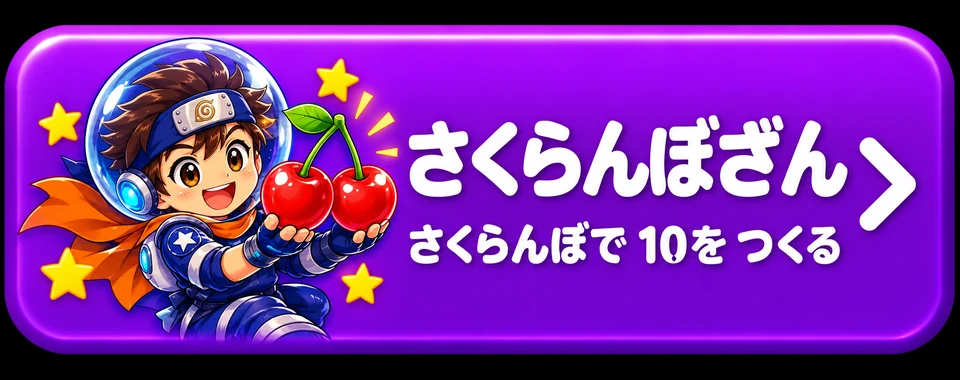
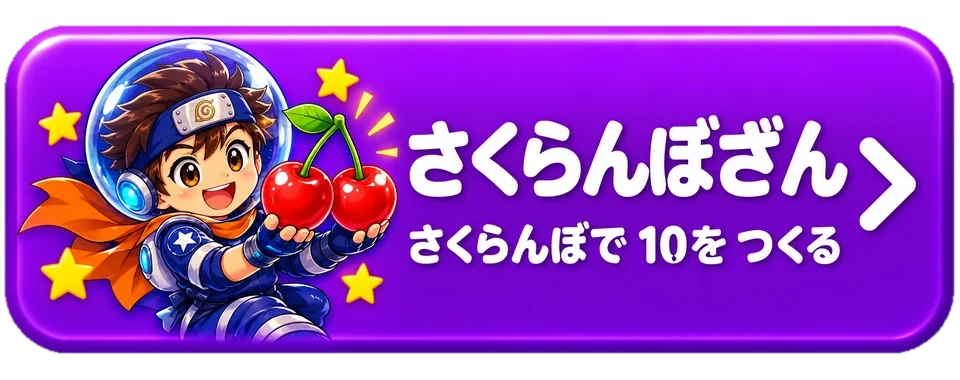
feat(さくらんぼざん): 専用の絵に差し替え、修行いちらんに加える（#63）
- 紹介ページのヒーロー・コラムのクリックバナー：タブレットの画面にプレイ画面（1024x768）を合成。
  バナーには「さくらんぼざん」「▶ ここをクリックしてためす」を合成（M PLUS Rounded 1c）
- OGP：左上にタイトルを合成。アプリ・紹介ページの og:image と仕様書を差し替え
- 教育支援・アプリ一覧のカードを さくらんぼざん の絵に（これまで さんすう と同じ絵）
- コラム「さくらんぼ算」の本文バナーを さくらんぼざん の紹介ページへ
- 修行いちらんに さくらんぼざん を追加（8本）。3段目の2本を中央に寄せるため6本線のグリッドに。
  1枚絵の地が黒の不透明だった nk-link-sakuranbo / nk-link-kuku は外側を透過に
- 8アプリの ninja-kids.css・ninja-links.js の ?v= を上げる／sitemap の lastmod を更新

Changed region(s): [[0.0, 0.0, 1.0, 1.0]]

diff --git a/tools/sakuranbo/landing.html b/tools/sakuranbo/landing.html
@@ -26,14 +26,14 @@
 <meta property="og:title" content="さくらんぼ算 練習｜さんすう うちゅうたんけん さくらんぼざん">
 <meta property="og:description" content="うしろを分ける・まえを分ける、1けた・2けたの4パターンで、くり上がりのたし算を練習できる無料アプリ。">
 <meta property="og:url" content="https://www.beetle-web.jp/tools/sakuranbo/landing.html">
-<meta property="og:image" content="https://www.beetle-web.jp/assets/images/sansu/lp/og-sansu.jpg">
+<meta property="og:image" content="https://www.beetle-web.jp/assets/images/sakuranbo/lp/og-sakuranbo.jpg">
 <meta property="og:image:width" content="1200">
 <meta property="og:image:height" content="630">
 <meta property="og:locale" content="ja_JP">
 <meta name="twitter:card" content="summary_large_image">
 <meta name="twitter:title" content="さくらんぼ算 練習｜さんすう うちゅうたんけん さくらんぼざん">
 <meta name="twitter:description" content="うしろを分ける・まえを分ける、1けた・2けたの4パターンで、くり上がりのたし算を練習。">
-<meta name="twitter:image" content="https://www.beetle-web.jp/assets/images/sansu/lp/og-sansu.jpg">
+<meta name="twitter:image" content="https://www.beetle-web.jp/assets/images/sakuranbo/lp/og-sakuranbo.jpg">
 <script type="application/ld+json">
 {
   "@context": "https://schema.org",
@@ -100,7 +100,7 @@
         </div>
         <div class="slp-hero-visual">
           <a class="slp-screen" href="/tools/sakuranbo/" aria-label="さんすう うちゅうたんけん さくらんぼざんを始める">
-            <img class="slp-hero-img" src="/assets/images/sansu/lp/app-play.jpg" alt="宇宙を進みながら4択の計算問題に答える、さんすう うちゅうたんけんのプレイ画面" width="1080" height="796">
+            <img class="slp-hero-img" src="/assets/images/sakuranbo/lp/app-play.jpg" alt="さくらんぼざんのプレイ画面。6＋6 のうしろの 6 を2つに分ける問題に、4つの答えから選ぶ" width="1080" height="796">
           </a>
           <div class="slp-float-card slp-float-one"><strong>5つの形</strong><span>まえ・うしろ × 1けた・2けた ＋ ちょうなんもん</span></div>
           <div class="slp-float-card slp-float-two"><strong>10問</strong><span>5分から あそべる</span></div>

diff --git a/tools/sakuranbo/index.html b/tools/sakuranbo/index.html
@@ -28,11 +28,11 @@
 <meta property="og:title" content="さくらんぼ算 練習｜さんすう うちゅうたんけん さくらんぼざん｜BEETLE">
 <meta property="og:description" content="さくらんぼ算を うしろを分ける・まえを分ける・2けたの4パターンで練習できる無料アプリ。">
 <meta property="og:url" content="https://www.beetle-web.jp/tools/sakuranbo/landing.html">
-<meta property="og:image" content="https://www.beetle-web.jp/assets/images/sansu/lp/og-sansu.jpg">
+<meta property="og:image" content="https://www.beetle-web.jp/assets/images/sakuranbo/lp/og-sakuranbo.jpg">
 <meta property="og:image:width" content="1200">
 <meta property="og:image:height" content="630">
 <meta name="twitter:card" content="summary_large_image">
-<meta name="twitter:image" content="https://www.beetle-web.jp/assets/images/sansu/lp/og-sansu.jpg">
+<meta name="twitter:image" content="https://www.beetle-web.jp/assets/images/sakuranbo/lp/og-sakuranbo.jpg">
 <!-- 評価はランディング(landing.html)へ集約する。canonical / og:url はランディングを指す（ツール共通化規約） -->
 <link rel="canonical" href="https://www.beetle-web.jp/tools/sakuranbo/landing.html">
 <link rel="preconnect" href="https://fonts.googleapis.com">
@@ -40,7 +40,7 @@
 <link href="https://fonts.googleapis.com/css2?family=M+PLUS+Rounded+1c:wght@400;700;800&display=swap" rel="stylesheet">
 <link rel="stylesheet" href="/css/common.css">
 <link rel="stylesheet" href="/css/sansu-app.css?v=20260927e">
-<link rel="stylesheet" href="/css/ninja-kids.css?v=20260928i">
+<link rel="stylesheet" href="/css/ninja-kids.css?v=20260929a">
 </head>
 <body class="ninja-kids ninja-space" data-sansu-mode="sakuranbo">
 <div id="site-header"></div>
@@ -61,7 +61,7 @@
   <p class="paper-about"><a href="/tools/sakuranbo/landing.html">🍒 このアプリについて・つかいかた を見る</a></p>
   <p class="paper-release">更新日：2026-09-28</p>
 </div>
-<script src="/js/ninja-links.js?v=20260924c"></script>
+<script src="/js/ninja-links.js?v=20260929a"></script>
 <script src="/js/nk-modal.js?v=20260927b"></script>
 <script src="/js/sansu-app.js?v=20260928h"></script>
 

diff --git a/js/ninja-links.js b/js/ninja-links.js
@@ -15,7 +15,8 @@
     phonics:  { name: 'フォニックス修行', note: 'えいごの おと',       img: 'nk-link-phonics.webp',  href: '/tools/phonics/' },
     tokei:    { name: 'とけい修行',       note: 'とけいを よむ',       img: 'nk-link-tokei.webp',    href: '/tools/tokei/' },
     sansu:    { name: 'さんすう',         note: 'けいさんを する',     img: 'nk-link-sansu.webp',    href: '/tools/sansu-app/' },
-    kuku:     { name: 'かけざん修行',     note: 'くくを となえる',     img: 'nk-link-kuku.webp',     href: '/tools/kuku/' }
+    kuku:     { name: 'かけざん修行',     note: 'くくを となえる',     img: 'nk-link-kuku.webp',     href: '/tools/kuku/' },
+    sakuranbo:{ name: 'さくらんぼざん',   note: 'さくらんぼで 10を つくる', img: 'nk-link-sakuranbo.webp', href: '/tools/sakuranbo/' }
   };
 
   /* 全部を、いつも同じ順で出す（2026-09-03改定）。
@@ -34,8 +35,12 @@
 
      7本目の かけざん(青210°) は3段目の中央に置く（2026-09-16）。真上が フォニックス(緑)で差96°、
      ななめ上が とけい・ローマ字。同じ青系の カタカナ(185°) とは離れる。
-     既存6本の並びは変えない（3段目の中央寄せは ninja-kids.css の .nk-link:last-child 側）。 */
-  var ORDER = ['sansu', 'katakana', 'kanji', 'tokei', 'phonics', 'romaji', 'kuku'];
+     既存6本の並びは変えない（3段目の中央寄せは ninja-kids.css の .nk-link:last-child 側）。
+
+     8本目の さくらんぼざん(紫) を足して3段目は2本に（2026-09-29）。2本は段の中央に寄せ、
+     さくらんぼざん を左・かけざん を右に置く。逆にすると さくらんぼざん が ローマ字(紫) の
+     ななめ下に来て紫が並ぶ。左なら上は とけい(橙)・フォニックス(緑)。 */
+  var ORDER = ['sansu', 'katakana', 'kanji', 'tokei', 'phonics', 'romaji', 'sakuranbo', 'kuku'];
 
   var TITLE = 'しゅぎょう いちらん';
   var IMG_BASE = '/assets/images/ninja/';

diff --git a/blog/posts/sakuranbo-zan.html b/blog/posts/sakuranbo-zan.html
@@ -91,7 +91,7 @@
       <p>とはいえ、さくらんぼの図を毎回プリントに描いて、丸に数を入れて…を親子でくり返すのは、思ったより手間です。子どもが何問も練習したがる日ほど、こちらの手が追いつかない。</p>
 
       <p>その手間をなくしたくて、無料の<strong>さくらんぼ算アプリ</strong><a href="/tools/sansu-app/landing.html">「さんすう うちゅうたんけん」</a>を作りました。分ける数（左のさくらんぼ）を選ぶと、10のまとまりができる流れが図で動く。答えるまで式の「＝?」は伏せてあるので、自分で考える力を残したまま練習できます。図つきのやさしいかいせつ画面もつけました。</p>
-      <a class="post-banner" href="/tools/sansu-app/landing.html"><img src="/assets/images/ninja/nk-link-sansu.webp" width="960" height="380" loading="lazy" alt="さんすう うちゅうたんけんをためす"></a>
+      <a class="post-banner" href="/tools/sakuranbo/landing.html"><img src="/assets/images/blog/banner-sakuranbo.jpg" width="1200" height="400" loading="lazy" alt="さくらんぼざんを ためす"></a>
 
 
       <p>たしざん・ひきざんもふくめて、宇宙を旅する感覚で進むので、うちの子は「もう一回」とせがむようになりました。登録もインストールもいらず、ブラウザを開くだけで無料です。</p>

diff --git a/edu-tools.html b/edu-tools.html
@@ -155,7 +155,7 @@
           <span class="service-peek-circle"><img class="service-peek-img" src="/assets/images/peek/peek-01.jpg" width="256" height="256" alt="" loading="lazy"></span>
           <span class="service-peek-label">クリック</span>
         </span>
-        <div class="tool-thumb"><img src="/assets/images/edu-thumbs/sansu-ninja-friends.jpg" alt="宇宙船で数の課題に挑戦する忍者の主人公と仲間たちのイラスト" width="640" height="360" loading="lazy"></div>
+        <div class="tool-thumb"><img src="/assets/images/edu-thumbs/sakuranbo-ninja-friends.jpg" alt="宇宙船の中で、忍者の主人公と仲間たちが 8＋3 のさくらんぼの図を指さして考えているイラスト" width="640" height="360" loading="lazy"></div>
         <div class="tool-card-top"><div class="tool-name">さんすう うちゅうたんけん さくらんぼざん</div></div>
         <p class="tool-desc">くり上がりのたし算を、さくらんぼ算で。うしろを分ける・まえを分ける、1けた・2けたの4つの形を練習。学校のプリントと同じ形です。</p>
         <span class="tool-tag">詳しく見る →</span>

diff --git a/apps.html b/apps.html
@@ -112,7 +112,7 @@
         <span class="tool-tag">詳しく見る →</span>
       </a>
       <a class="tool-card" href="/tools/sakuranbo/landing.html">
-        <div class="tool-thumb"><img src="/assets/images/edu-thumbs/sansu-ninja-friends.jpg" alt="宇宙船で数の課題に挑戦する忍者の主人公と仲間たちのイラスト" width="640" height="360" loading="lazy"></div>
+        <div class="tool-thumb"><img src="/assets/images/edu-thumbs/sakuranbo-ninja-friends.jpg" alt="宇宙船の中で、忍者の主人公と仲間たちが 8＋3 のさくらんぼの図を指さして考えているイラスト" width="640" height="360" loading="lazy"></div>
         <div class="tool-card-top"><div class="tool-name">さんすう うちゅうたんけん さくらんぼざん</div></div>
         <p class="tool-desc">くり上がりのたし算を、さくらんぼ算で。うしろを分ける・まえを分ける、1けた・2けたの4つの形を練習。学校のプリントと同じ形です。</p>
         <span class="tool-tag">詳しく見る →</span>

diff --git a/css/ninja-kids.css b/css/ninja-kids.css
@@ -2694,12 +2694,16 @@ body.ninja-kuku { --nk-items:url('/assets/images/ninja/items/kuku-items.webp'); 
 }
 @media (min-width:768px) {
   .nk-links-list {
-    grid-template-columns:repeat(3,minmax(0,1fr));
+    /* 見た目は3列。半列ずらせるよう6本の線で割り、1枚に2本ずつ使う（2026-09-29） */
+    grid-template-columns:repeat(6,minmax(0,1fr));
     gap:12px 14px;
     width:100%;
   }
-  /* 3列で割り切れず1枚だけ余ったら、左端ではなく真ん中の列に置く（7本になった 2026-09-16） */
-  .nk-link:last-child:nth-child(3n+1) { grid-column:2; }
+  .nk-link { grid-column:span 2; }
+  /* 3列で割り切れず余ったら、左詰めではなく段の中央に寄せる。
+     1枚だけ余ったら真ん中の列（7本になった 2026-09-16）、2枚余ったら半列ずつ内側へ（8本になった 2026-09-29） */
+  .nk-link:last-child:nth-child(3n+1) { grid-column:3 / span 2; }
+  .nk-link:nth-last-child(2):nth-child(3n+1) { grid-column:2 / span 2; }
 }
 .nk-link {
   display:block;

diff --git a/tools/sansu-app/index.html b/tools/sansu-app/index.html
@@ -40,7 +40,7 @@
 <link href="https://fonts.googleapis.com/css2?family=M+PLUS+Rounded+1c:wght@400;700;800&display=swap" rel="stylesheet">
 <link rel="stylesheet" href="/css/common.css">
 <link rel="stylesheet" href="/css/sansu-app.css?v=20260927e">
-<link rel="stylesheet" href="/css/ninja-kids.css?v=20260928i">
+<link rel="stylesheet" href="/css/ninja-kids.css?v=20260929a">
 </head>
 <body class="ninja-kids ninja-space">
 <div id="site-header"></div>
@@ -61,7 +61,7 @@
   <p class="paper-about"><a href="/tools/sansu-app/landing.html">🚀 このアプリについて・つかいかた を見る</a></p>
   <p class="paper-release">更新日：2026-08-14</p>
 </div>
-<script src="/js/ninja-links.js?v=20260924c"></script>
+<script src="/js/ninja-links.js?v=20260929a"></script>
 <script src="/js/nk-modal.js?v=20260927b"></script>
 <script src="/js/sansu-app.js?v=20260928h"></script>
 

diff --git a/tools/katakana/index.html b/tools/katakana/index.html
@@ -49,7 +49,7 @@
 <link rel="stylesheet" href="/css/common.css">
 <link rel="stylesheet" href="/css/app-reference.css">
 <link rel="stylesheet" href="/css/katakana.css?v=20260927a">
-<link rel="stylesheet" href="/css/ninja-kids.css?v=20260928i">
+<link rel="stylesheet" href="/css/ninja-kids.css?v=20260929a">
 </head>
 <body class="ninja-kids ninja-katakana">
 
@@ -128,7 +128,7 @@
 <script src="/js/contact-track.js"></script>
 <script src="/js/app-reference.js"></script>
 <script src="/js/katakana-data.js?v=20260923c"></script>
-<script src="/js/ninja-links.js?v=20260924c"></script>
+<script src="/js/ninja-links.js?v=20260929a"></script>
 <script src="/js/nk-modal.js?v=20260927b"></script>
 <script src="/js/katakana.js?v=20260927c"></script>
 </body>

diff --git a/tools/phonics/index.html b/tools/phonics/index.html
@@ -49,7 +49,7 @@
 <link rel="stylesheet" href="/css/common.css">
 <link rel="stylesheet" href="/css/app-reference.css">
 <link rel="stylesheet" href="/css/phonics.css?v=20260927a">
-<link rel="stylesheet" href="/css/ninja-kids.css?v=20260928i">
+<link rel="stylesheet" href="/css/ninja-kids.css?v=20260929a">
 </head>
 <body class="ninja-kids ninja-phonics">
 
@@ -126,7 +126,7 @@
 <script src="/js/contact-track.js"></script>
 <script src="/js/app-reference.js"></script>
 <script src="/js/phonics-data.js?v=20260923c"></script>
-<script src="/js/ninja-links.js?v=20260924c"></script>
+<script src="/js/ninja-links.js?v=20260929a"></script>
 <script src="/js/nk-modal.js?v=20260927b"></script>
 <script src="/js/phonics.js?v=20260927d"></script>
 </body>

diff --git a/tools/romaji/index.html b/tools/romaji/index.html
@@ -49,7 +49,7 @@
 <link rel="stylesheet" href="/css/common.css">
 <link rel="stylesheet" href="/css/app-reference.css">
 <link rel="stylesheet" href="/css/romaji.css?v=20260927a">
-<link rel="stylesheet" href="/css/ninja-kids.css?v=20260928i">
+<link rel="stylesheet" href="/css/ninja-kids.css?v=20260929a">
 </head>
 <body class="ninja-kids ninja-romaji">
 
@@ -119,7 +119,7 @@
 <script src="/js/contact-track.js"></script>
 <script src="/js/app-reference.js"></script>
 <script src="/js/romaji-data.js?v=20260923c"></script>
-<script src="/js/ninja-links.js?v=20260924c"></script>
+<script src="/js/ninja-links.js?v=20260929a"></script>
 <script src="/js/nk-modal.js?v=20260927b"></script>
 <script src="/js/romaji.js?v=20260927f"></script>
 </body>

diff --git a/tools/kanji/index.html b/tools/kanji/index.html
@@ -49,7 +49,7 @@
 <link rel="stylesheet" href="/css/common.css">
 <link rel="stylesheet" href="/css/app-reference.css">
 <link rel="stylesheet" href="/css/kanji.css?v=20260927a">
-<link rel="stylesheet" href="/css/ninja-kids.css?v=20260928i">
+<link rel="stylesheet" href="/css/ninja-kids.css?v=20260929a">
 </head>
 <body class="ninja-kids ninja-kanji">
 
@@ -114,7 +114,7 @@
 <script src="/js/contact-track.js"></script>
 <script src="/js/app-reference.js"></script>
 <script src="/js/kanji-data.js?v=20260923c"></script>
-<script src="/js/ninja-links.js?v=20260924c"></script>
+<script src="/js/ninja-links.js?v=20260929a"></script>
 <script src="/js/nk-modal.js?v=20260927b"></script>
 <script src="/js/kanji.js?v=20260927b"></script>
 </body>
